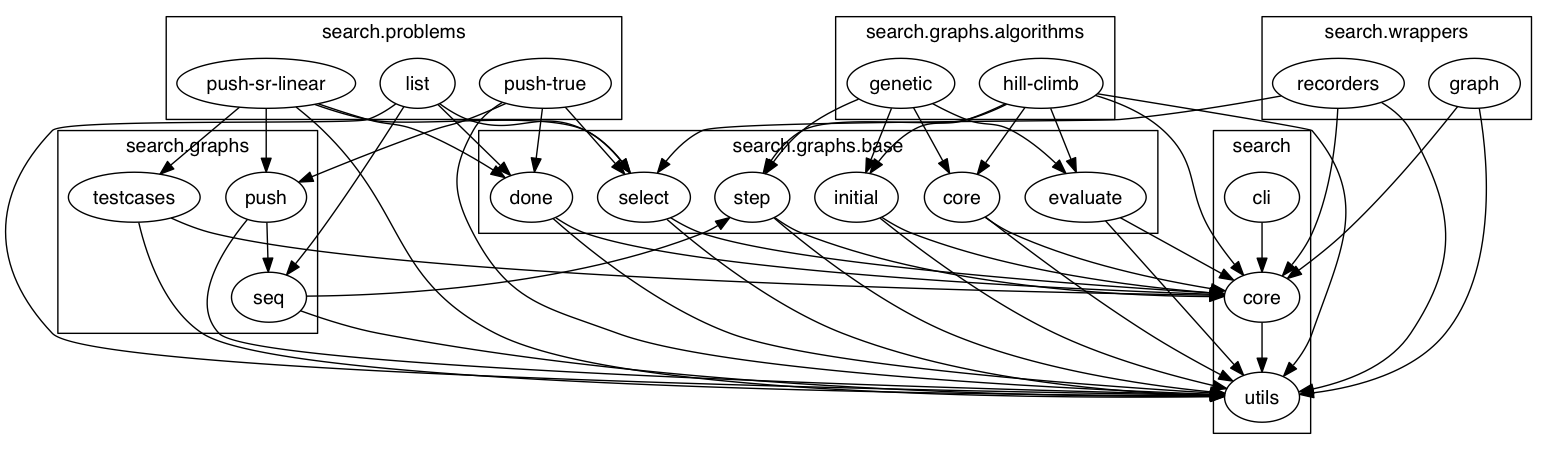
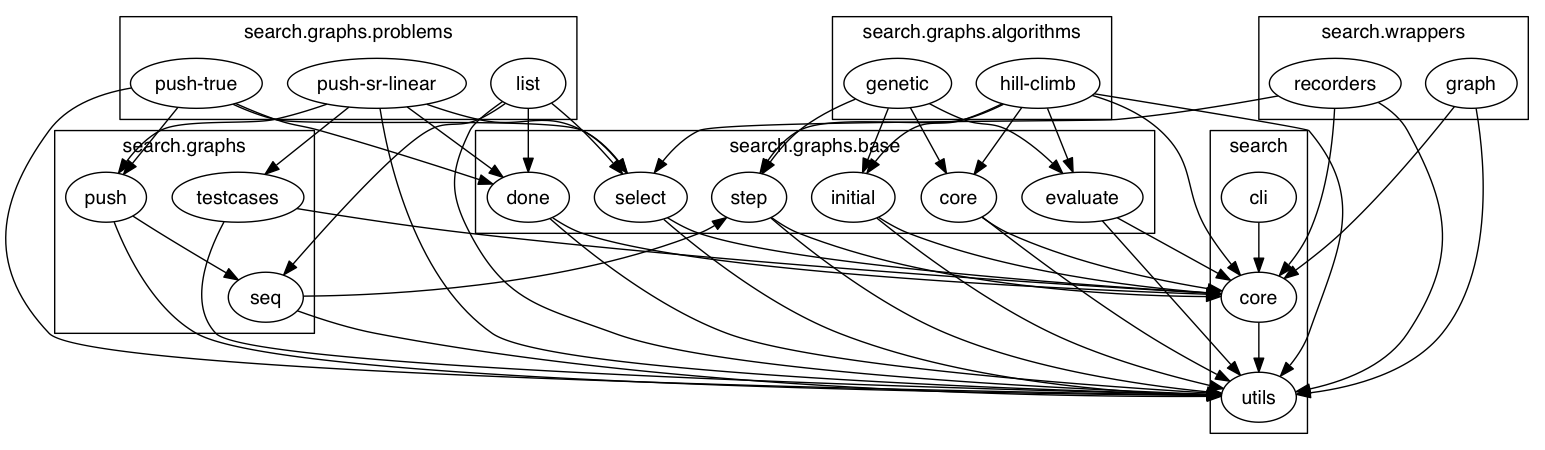
search.problems -> search.graphs.problems

diff --git a/README.md b/README.md
@@ -12,9 +12,9 @@ This README is not complete yet and the bottom is out of date.
 ## Quickstart
 
 ```bash
-lein run search.recorders.text/timbre search.problems.list/hill-climb-config
+lein run search.recorders.text/timbre search.graphs.problems.list/hill-climb-config
 
-lein trampoline run search.recorders.text/min-distance search.problems.push-saul/genetic-config
+lein trampoline run search.recorders.text/min-distance search.graphs.problems.push-saul/genetic-config
 ```
 
 
@@ -110,7 +110,7 @@ configuration pieces that each use different algorithms but expect the `mutate`
 and `->genome` functions to be in the same place in your configuration.
 
 For a simple example, look at `search.graphs.config/hill-climb-algorithm`
-that is used in `search.problems.list/config`.
+that is used in `search.graphs.problems.list/config`.
 
 
 #### Criticism of config
